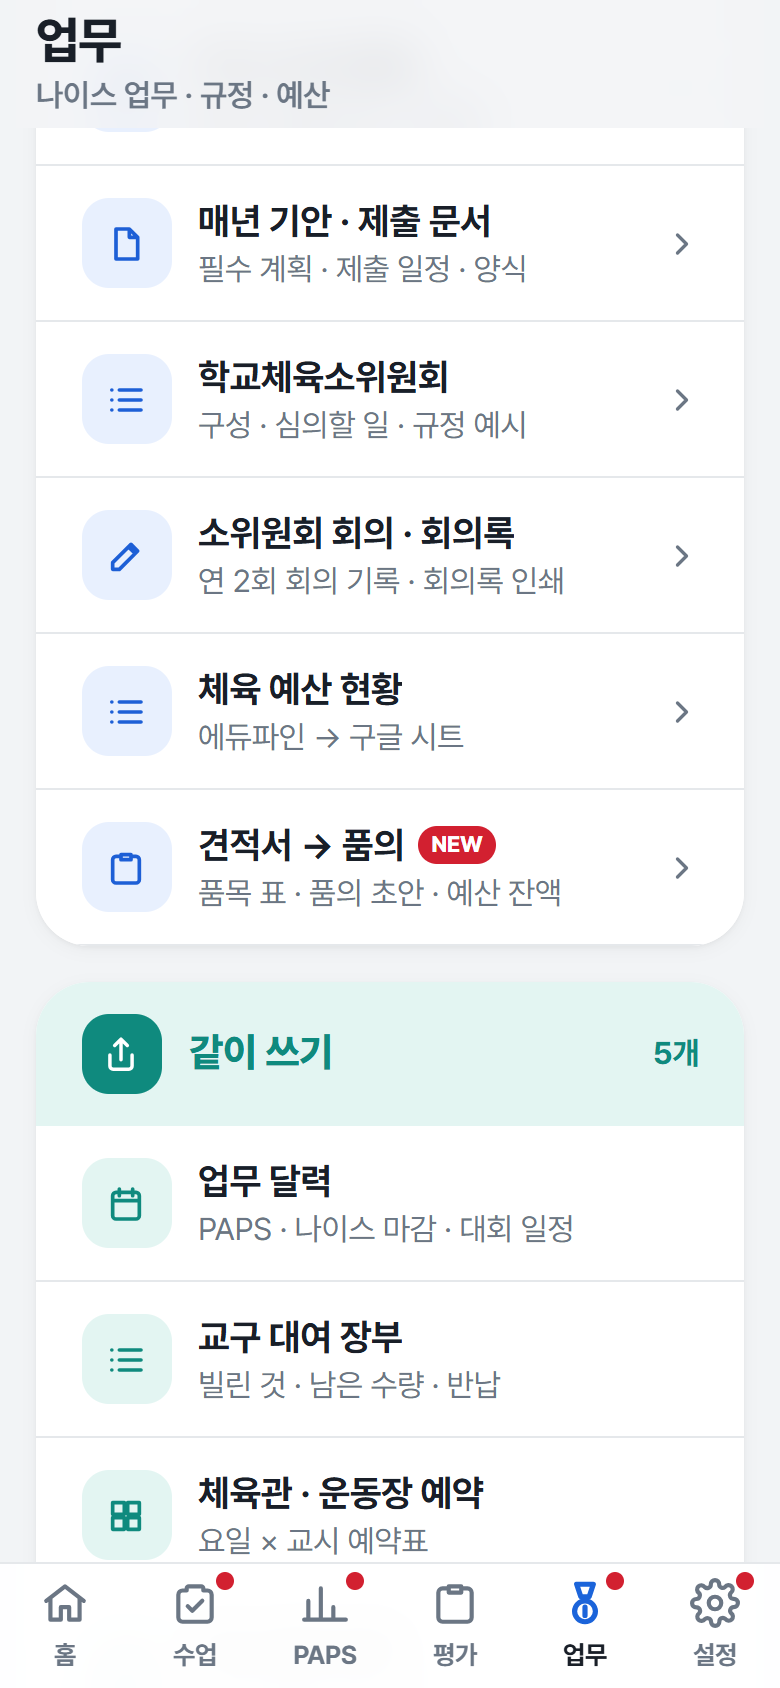
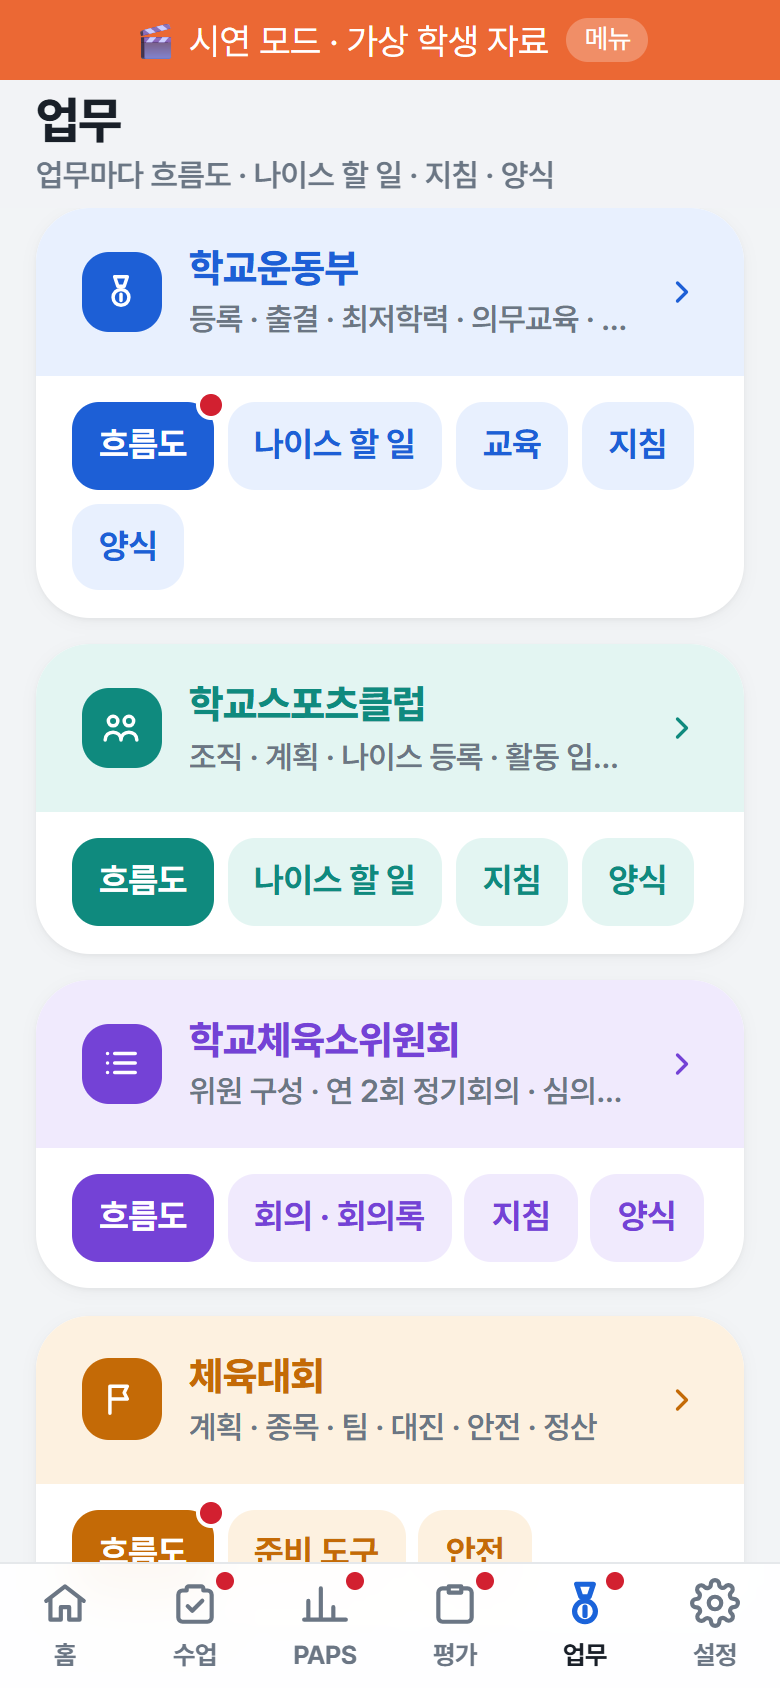
매뉴얼 캡처: 업무 메뉴(업무별 묶음) 교체 · 흐름도 화면 추가 — 포트폴리오 매뉴얼 · 웹 사용 설명서

diff --git a/public/manual/index.html b/public/manual/index.html
@@ -627,6 +627,10 @@
         <li><b>체육대회</b>: 흐름도 · 준비 도구(종목 규칙 · 팀 나누기 · 대진표 · 보조심판 · 견적서) · 안전(행사 전 교직원 안전교육 · 사고 대응 순서).</li>
         <li><b>현장 양식</b>: 앱을 만든 현직 체육교사가 실제 업무에 쓴 양식을 개인정보를 지워 올려 둘 칸이에요. 양식이 올라간 업무에만 나타나요(차례로 올릴 예정).</li>
       </ul>
+      <div class="shots two">
+        <figure class="shot phone"><img src="img/manual-13.webp" alt="업무 메뉴: 업무마다 흐름도 · 나이스 할 일 · 지침 · 양식" width="780" height="1688" loading="lazy"><figcaption>업무 메뉴 — 업무마다 흐름도 · 나이스 할 일 · 지침 · 양식</figcaption></figure>
+        <figure class="shot phone"><img src="img/manual-17.webp" alt="학교스포츠클럽 흐름도: 단계마다 시기 · 꼬리표 · 근거 쪽 · 바로가기" width="780" height="1688" loading="lazy"><figcaption>흐름도 (학교스포츠클럽) — 시기 · 어디서 · 근거 쪽 · 바로가기</figcaption></figure>
+      </div>
     </div>
 
     <div class="card">
@@ -645,7 +649,6 @@
         <li>교육청 공문 PDF(나이스 교육자료 · 학교체육 운영방향)를 이 기기에 넣어 두면 쪽 표시를 눌러 그 쪽이 앱 안에서 바로 열려요.</li>
       </ul>
       <div class="note warn">‘제주’ 표시는 제주교육청 2026 기준이에요. 다른 시도는 자기 교육청 계획을 함께 확인하세요.</div>
-      <div class="shots"><figure class="shot phone"><img src="img/manual-13.webp" alt="업무 메뉴" width="780" height="1688" loading="lazy"><figcaption>업무 메뉴 (휴대폰)</figcaption></figure></div>
     </div>
   </section>
 

diff --git a/portfolio/manual.md b/portfolio/manual.md
@@ -131,7 +131,9 @@ PE LOG는 체육 수업에 필요한 일을 **메뉴 6개**에 모았어요. 휴
 - **견적서 → 품의**: 업체 견적서(엑셀 · PDF · 사진)를 넣으면 품목 표와 품의 초안을 만들어요. 사진 · 스캔본은 누를 때만 AI로 읽고(업체 연락처 칸은 잘라서 빼기), 예산 항목을 고르면 쓰고 난 뒤 잔액을 보여 줘요. 에듀파인에는 복사해서 붙여 넣어요.
 - **같이 쓰기**: 업무 달력, 진도표 · 수행평가 틀 보내기 · 받기(링크 · 파일, 학생 정보 없이), 같은 학교 선생님과 **교구 대여 장부 · 체육관 예약**(학교 공유 공간, 공유 코드 + 비밀번호).
 
-![업무 메뉴](images/manual-13.png)
+![업무 메뉴: 업무마다 흐름도 · 나이스 할 일 · 지침 · 양식](images/manual-13.png)
+
+![흐름도 (학교스포츠클럽): 단계마다 시기 · 어디서 하는 일 · 근거 쪽 · 바로가기](images/manual-17.png)
 
 ![견적서 → 품의: 부가세까지 맞춰 견적서 합계와 비교](images/manual-15.png)
 
@@ -176,7 +178,8 @@ PE LOG는 체육 수업에 필요한 일을 **메뉴 6개**에 모았어요. 휴
 | manual-10.png | PAPS 통계 (PC, 종합등급 분포 — 1·2등급 파랑 · 3등급 회색 · 4·5등급 빨강, 요인별 평균) |
 | manual-11.png | 수행평가 체크리스트 채점 (휴대폰, 위에 채점 현황) |
 | manual-12.png | 세특 쓰기 편집 창 (휴대폰, 수준 틀 초안 · 바이트) |
-| manual-13.png | 업무 메뉴 (휴대폰, 매년 기안 · 소위원회 · 체육 예산 · 견적서 → 품의) |
+| manual-13.png | 업무 메뉴 (휴대폰, 업무별 묶음 — 흐름도 · 나이스 할 일 · 지침 · 양식 칩) |
 | manual-14.png | 설정 (휴대폰) |
 | manual-15.png | 견적서 → 품의 (휴대폰, 가상 견적서 — 품목 합 · 부가세 · 견적서 합계 같음) |
 | manual-16.png | 백업 → 다른 기기로 옮기기 (휴대폰, 잠금 파일 만들기) |
+| manual-17.png | 흐름도 (휴대폰, 학교스포츠클럽 — 단계 · 꼬리표 · 근거 쪽 · 바로가기) |

diff --git a/CLAUDE.md b/CLAUDE.md
@@ -1012,3 +1012,4 @@ attendance      { id, schoolYear, groupId, studentId, date, period?, status: 'ab
 - 주소: `/work/:topic/:tab`(WorkGuidePage, tab = neis · edu · rules · forms · docs, 없으면 흐름도), `/work/sportsday/:tab`(SportsDayPage, tools · safety · docs). 일정 탭은 흐름도로 합쳐 뺌. `/work/flow` · `/work/author-docs`는 메뉴에서 빼고 주소만 남김(6가지 모아 보기 · 인쇄)
 - 큰 메뉴 화면은 compact 묶음을 칩 카드(`ChipPanel`, 첫 칩 = 흐름도 색 채움)로 두 줄씩, 왼쪽 메뉴는 compact 묶음 중 지금 보는 업무만 펼침, 위치 표시는 '업무 › 학교운동부 › 나이스 할 일'. 업무 바꾸기 단추 줄 `WorkTopicSwitch`(운동부 · 스포츠클럽 · 소위원회 · 체육대회)
 - 체육대회 [안전] = `SPORTSDAY_SAFETY`(운영방향 92~94쪽 문장만, 교육청 전화번호는 넣지 않음)
+- 매뉴얼 캡처 (2026-11-13): manual-13(업무 메뉴 · 업무별 칩 카드) 교체 · manual-17(흐름도 · 학교스포츠클럽) 새로 — 포트폴리오 images · 웹 설명서 img(webp) 둘 다. 도구 `pe-log-demo-video/cap-1113.mjs`(배포 사이트 시연 모드)
